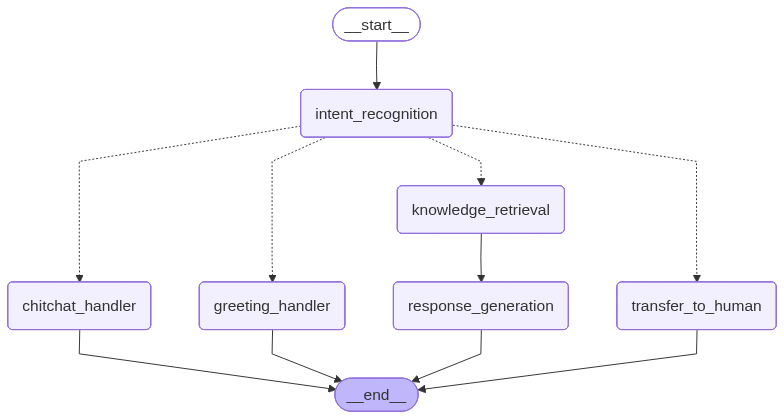
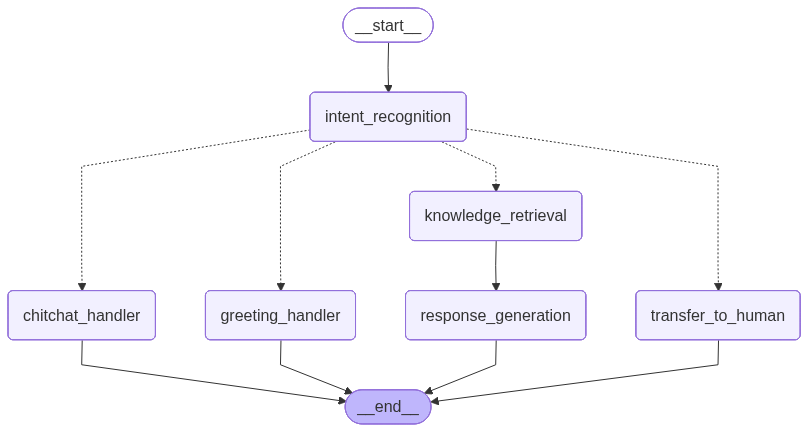
更新input错误

diff --git a/core/config.py b/core/config.py
@@ -3,6 +3,9 @@ Configuration file
 """
 import os
 from pathlib import Path
+from dotenv import load_dotenv
+
+load_dotenv()
 from typing import List
 from langchain_openai import ChatOpenAI
 from langchain_core.embeddings import Embeddings
@@ -38,8 +41,13 @@ class ZhipuEmbeddings(Embeddings):
         self.model = model
 
     def embed_documents(self, texts: List[str]) -> List[List[float]]:
-        response = self.client.embeddings.create(model=self.model, input=texts)
-        return [item.embedding for item in response.data]
+        results = []
+        batch_size = 64
+        for i in range(0, len(texts), batch_size):
+            batch = texts[i:i + batch_size]
+            response = self.client.embeddings.create(model=self.model, input=batch)
+            results.extend([item.embedding for item in response.data])
+        return results
 
     def embed_query(self, text: str) -> List[float]:
         response = self.client.embeddings.create(model=self.model, input=[text])
